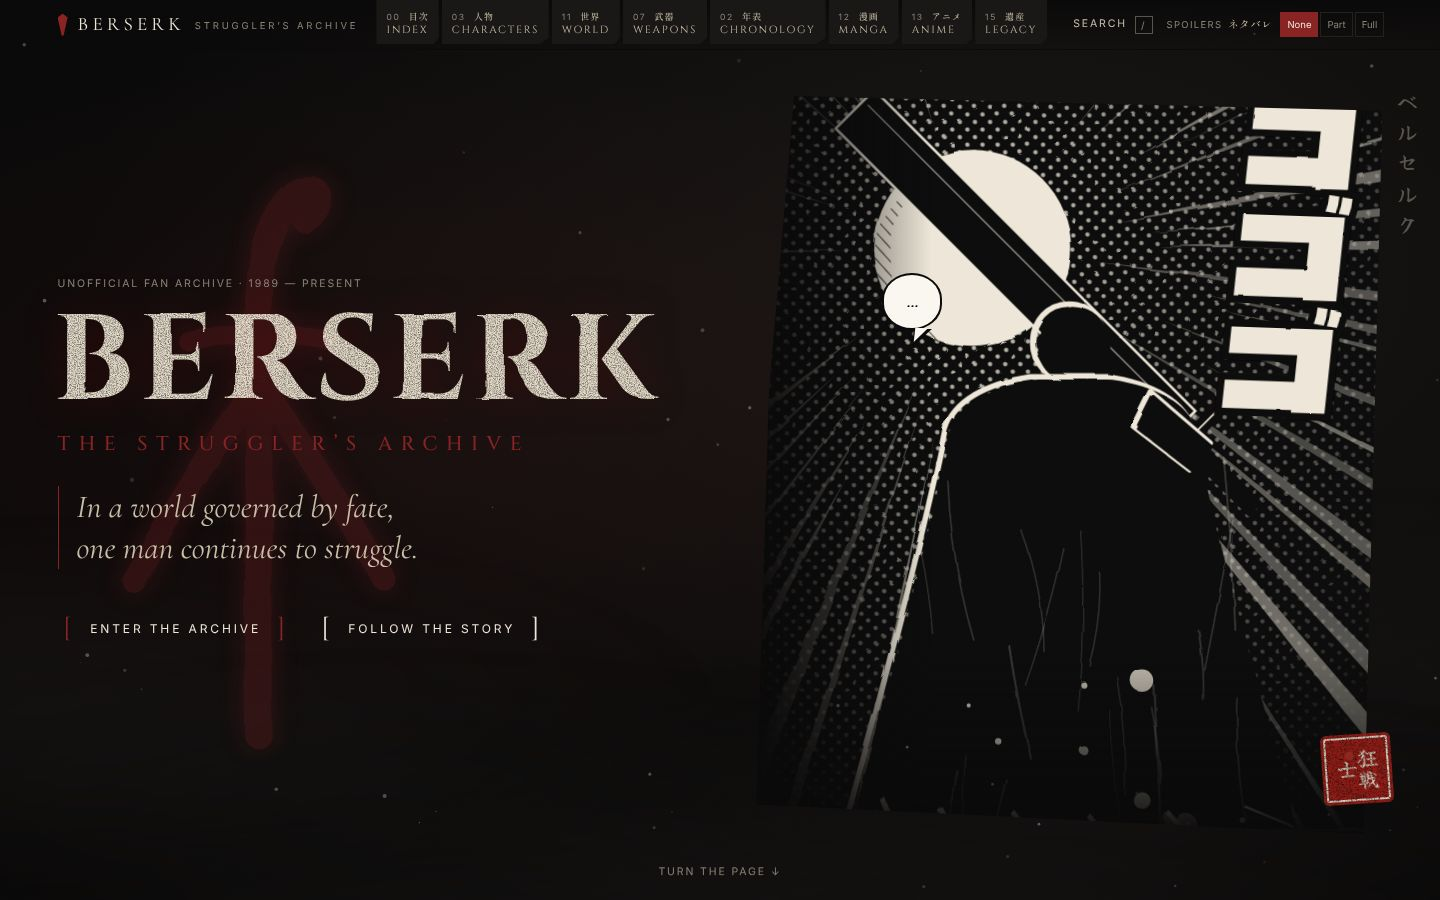
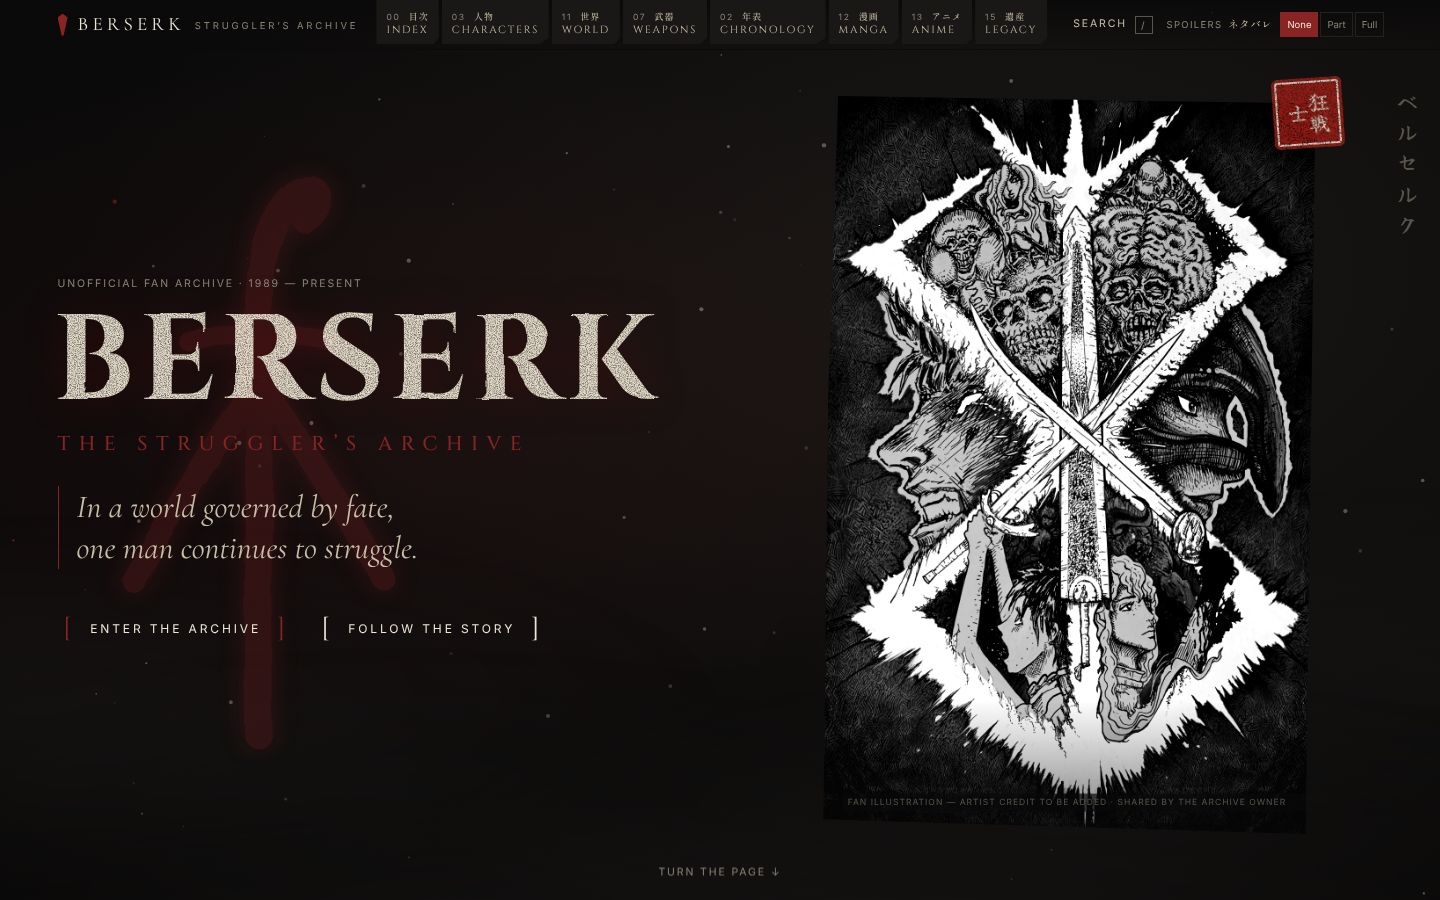
Use the supplied fan illustration as the homepage cover
The cover slot now holds the Brand of Sacrifice illustration. When a
real cover image is present the hero frame switches to its 2:3 ratio,
shows it whole and drops the lettering and balloon drawn over the
placeholder. Credit entry added; README screenshots refreshed.

Claude-Session: https://claude.ai/code/session_01KJ1djDTAFJ8LYnKxhxN7tj

Changed region(s): [[0.5625, 0.0622, 0.9688, 0.9022]]

diff --git a/frontend/src/pages/Home.tsx b/frontend/src/pages/Home.tsx
@@ -9,6 +9,7 @@ import { Atmosphere } from '@/fx/Atmosphere';
 import { BrandMark } from '@/fx/BrandMark';
 import { useParallax } from '@/fx/motion';
 import { archive } from '@/data/archive';
+import { assetFor } from '@/data/assets';
 import type { ArtVariant } from '@/data/types';
 
 /** The five chapters of the homepage, each opening onto a part of the archive. */
@@ -74,6 +75,8 @@ function Chapter({
 export default function Home() {
   const open = useOpenArchive();
   const heroDrift = useParallax<HTMLDivElement>(0.14);
+  // A real cover picture (src/assets/panels/cover.*) is shown whole, without lettering over it.
+  const coverArt = assetFor('cover');
 
   return (
     <>
@@ -99,12 +102,12 @@ export default function Home() {
           </div>
         </div>
 
-        <div className="prologue__hero">
+        <div className={`prologue__hero ${coverArt ? 'prologue__hero--art' : ''}`}>
           <div className="prologue__hero-frame">
             <div className="prologue__hero-drift" ref={heroDrift}>
-              <InkArt variant="swordsman" seed="cover" label="A swordsman seen from behind" sfx="auto" sfxPos="tr" />
+              <InkArt variant="swordsman" seed="cover" label="A swordsman seen from behind" sfx={coverArt ? undefined : 'auto'} sfxPos="tr" />
             </div>
-            <Balloon tail="right" className="cover__balloon">…</Balloon>
+            {!coverArt && <Balloon tail="right" className="cover__balloon">…</Balloon>}
           </div>
           <Hanko text="狂戦士" size={70} className="prologue__hanko" />
         </div>

diff --git a/frontend/src/styles/struggler.css b/frontend/src/styles/struggler.css
@@ -157,6 +157,24 @@
   background: linear-gradient(90deg, var(--ink) 0%, transparent 28%), linear-gradient(0deg, var(--ink) 0%, transparent 25%);
   pointer-events: none;
 }
+.prologue__hero--art {
+  /* the supplied cover is a 2:3 portrait — show it whole */
+  aspect-ratio: 2 / 3;
+  justify-self: center;
+  max-width: 100%;
+}
+.prologue__hero--art .prologue__hero-frame {
+  clip-path: polygon(3% 0, 100% 1%, 98% 100%, 0 98%, 1% 40%);
+}
+.prologue__hero--art .prologue__hero-frame::after {
+  background: linear-gradient(0deg, rgba(11, 10, 10, 0.55) 0%, transparent 18%);
+}
+.prologue__hero--art .prologue__hero-drift {
+  inset: -3% 0;
+}
+.prologue__hero--art .art img {
+  filter: grayscale(1) contrast(1.05);
+}
 .prologue__hero-drift {
   position: absolute;
   inset: -8% 0;
@@ -791,4 +809,14 @@
   .edge-nav__brand-sub {
     display: none;
   }
+}
+/* keep the artist credit inside the cut frame, and the seal off the drawing */
+.prologue__hero--art .art__credit {
+  bottom: 4%;
+  left: 4%;
+}
+.prologue__hero--art .prologue__hanko {
+  right: -28px;
+  top: -18px;
+  bottom: auto;
 }

diff --git a/frontend/src/assets/panels/SLOTS.md b/frontend/src/assets/panels/SLOTS.md
@@ -2,16 +2,16 @@
 
 <!-- Generated by `npm run panels`. Do not edit by hand. -->
 
-**0 of 200 slots filled.** Put a picture in this folder named exactly as the *File name* column
+**1 of 200 slots filled.** Put a picture in this folder named exactly as the *File name* column
 (any of .jpg .jpeg .png .webp .avif), then reload the site. Run `npm run panels` again to update this list.
 
 Only add images you own or have permission to publish. See README.md in this folder.
 
-## Home — 0/4
+## Home — 1/4
 
 | | File name | Where it appears | Shape | Page |
 |---|---|---|---|---|
-| ⬜ | `cover.jpg` | Hero illustration on the homepage (full height, right side) | portrait | `/` |
+| ✅ | `cover.webp` | Hero illustration on the homepage (full height, right side) | portrait | `/` |
 | ⬜ | `home-struggler.jpg` | Chapter I · The Struggler | landscape | `/` |
 | ⬜ | `home-golden-age.jpg` | Chapter II · The Golden Age | landscape | `/` |
 | ⬜ | `home-world.jpg` | Chapter IV · The World of Berserk | landscape | `/` |
